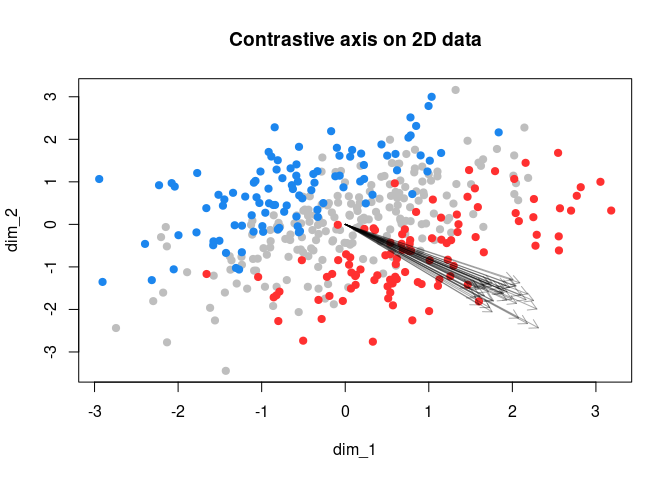
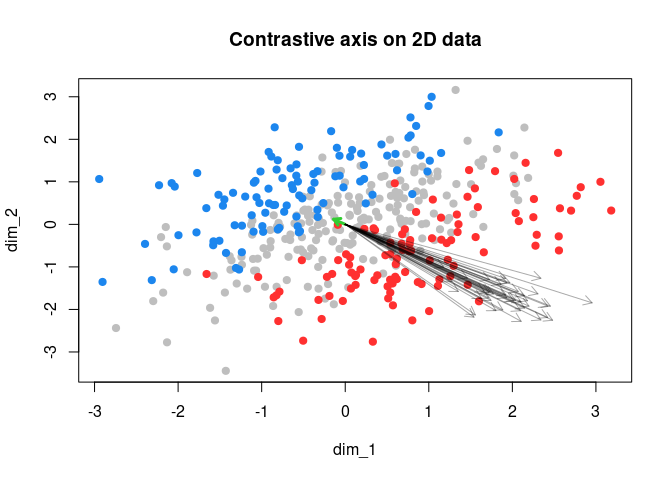
readme updates, 1d fix

Changed region(s): [[0.5312, 0.4688, 0.8125, 0.6875], [0.5, 0.4375, 0.5312, 0.4688]]

diff --git a/README.md b/README.md
@@ -88,19 +88,10 @@ mcmc_estimate = pcpca_mcmc(X, Y, .85, d = 1,
                            refresh = 0)
 #> Computing MLE estimate to use as initialization point...
 #> The first 2 of 2 eigenvalues of C are positive.
-#> Init values were only set for a subset of parameters. 
-#> Missing init values for the following parameters:
-#>  - chain 1: W
-#>  - chain 2: W
-#>  - chain 3: W
-#>  - chain 4: W
 #> Running MCMC with 4 sequential chains...
 #> 
 #> Chain 1 finished in 0.0 seconds.
 #> Chain 2 finished in 0.0 seconds.
-#> Chain 3 Rejecting initial value:
-#> Chain 3   Log probability evaluates to log(0), i.e. negative infinity.
-#> Chain 3   Stan can't start sampling from this initial value.
 #> Chain 3 finished in 0.0 seconds.
 #> Chain 4 finished in 0.0 seconds.
 #> 
@@ -118,7 +109,10 @@ W_draws = mcmc_estimate$draws('W', format = 'matrix')[sample.int(4000,40),]
 #  sigma2      0.24   0.23 0.07 0.07   0.15   0.38 1.00     2024     1901
 #  ...
 
-
+arrows(x0 = 0, y0 = 0,
+       x1 = mle_estimate$W_mle[1,1],
+       y1 = mle_estimate$W_mle[2,1], 
+       col = "limegreen", length = .075, lwd = 3)
 arrows(x0 = 0, y0 = 0,
        x1 = W_draws[,1],
        y1 = W_draws[,2], 
@@ -209,31 +203,31 @@ res_mcmc = pcpca_mcmc(X, Y, .85, 2,
 #> The first 8 of 10 eigenvalues of C are positive.
 #> Running MCMC with 4 parallel chains...
 #> 
-#> Chain 3 finished in 2.2 seconds.
-#> Chain 4 finished in 2.2 seconds.
-#> Chain 2 finished in 2.4 seconds.
-#> Chain 1 finished in 2.8 seconds.
+#> Chain 3 finished in 2.1 seconds.
+#> Chain 2 finished in 2.2 seconds.
+#> Chain 4 finished in 2.1 seconds.
+#> Chain 1 finished in 2.3 seconds.
 #> 
 #> All 4 chains finished successfully.
-#> Mean chain execution time: 2.4 seconds.
-#> Total execution time: 2.9 seconds.
-#> Warning: 1 of 4000 (0.0%) transitions ended with a divergence.
+#> Mean chain execution time: 2.2 seconds.
+#> Total execution time: 2.4 seconds.
+#> Warning: 7 of 4000 (0.0%) transitions ended with a divergence.
 #> See https://mc-stan.org/misc/warnings for details.
 
 res_mcmc$summary(c("sigma2", "W_id"))
 #> # A tibble: 21 × 10
 #>    variable    mean median     sd    mad     q5    q95  rhat ess_bulk ess_tail
 #>    <chr>      <num>  <num>  <num>  <num>  <num>  <num> <num>    <num>    <num>
-#>  1 sigma2     1.05   1.05  0.0619 0.0635  0.956  1.16   1.00    4131.    2890.
-#>  2 W_id[1,1] -1.87  -1.86  0.431  0.429  -2.60  -1.18   1.00    3350.    3177.
-#>  3 W_id[2,1] -0.858 -0.852 0.141  0.142  -1.10  -0.633  1.00    4016.    3163.
-#>  4 W_id[3,1]  7.37   7.34  0.598  0.579   6.45   8.42   1.00    4417.    2414.
-#>  5 W_id[4,1]  0.558  0.558 0.124  0.124   0.360  0.767  1.00    4935.    2966.
-#>  6 W_id[5,1]  0.416  0.412 0.169  0.169   0.145  0.697  1.00    3182.    2986.
-#>  7 W_id[6,1]  8.81   8.76  0.677  0.666   7.76  10.0    1.00    4598.    2540.
-#>  8 W_id[7,1]  2.48   2.47  0.214  0.209   2.15   2.86   1.00    4563.    3298.
-#>  9 W_id[8,1] -6.76  -6.73  0.573  0.562  -7.77  -5.87   1.00    4265.    2545.
-#> 10 W_id[9,1] -2.73  -2.71  0.367  0.362  -3.36  -2.15   1.00    3532.    3107.
+#>  1 sigma2     1.05   1.05  0.0602 0.0603  0.957  1.15   1.00    3814.    2733.
+#>  2 W_id[1,1] -1.87  -1.86  0.426  0.411  -2.60  -1.20   1.00    3653.    2779.
+#>  3 W_id[2,1] -0.856 -0.854 0.143  0.136  -1.10  -0.629  1.00    4664.    3202.
+#>  4 W_id[3,1]  7.37   7.35  0.586  0.575   6.46   8.41   1.00    4129.    2761.
+#>  5 W_id[4,1]  0.561  0.557 0.125  0.124   0.361  0.767  1.00    5033.    3161.
+#>  6 W_id[5,1]  0.420  0.418 0.168  0.170   0.148  0.695  1.00    3827.    2771.
+#>  7 W_id[6,1]  8.80   8.76  0.660  0.642   7.79   9.95   1.00    4197.    2352.
+#>  8 W_id[7,1]  2.48   2.47  0.211  0.208   2.16   2.86   1.00    4170.    3049.
+#>  9 W_id[8,1] -6.75  -6.72  0.553  0.544  -7.74  -5.90   1.00    4081.    2688.
+#> 10 W_id[9,1] -2.74  -2.73  0.363  0.350  -3.35  -2.17   1.00    3760.    3170.
 #> # ℹ 11 more rows
 
 # Look at the first component
